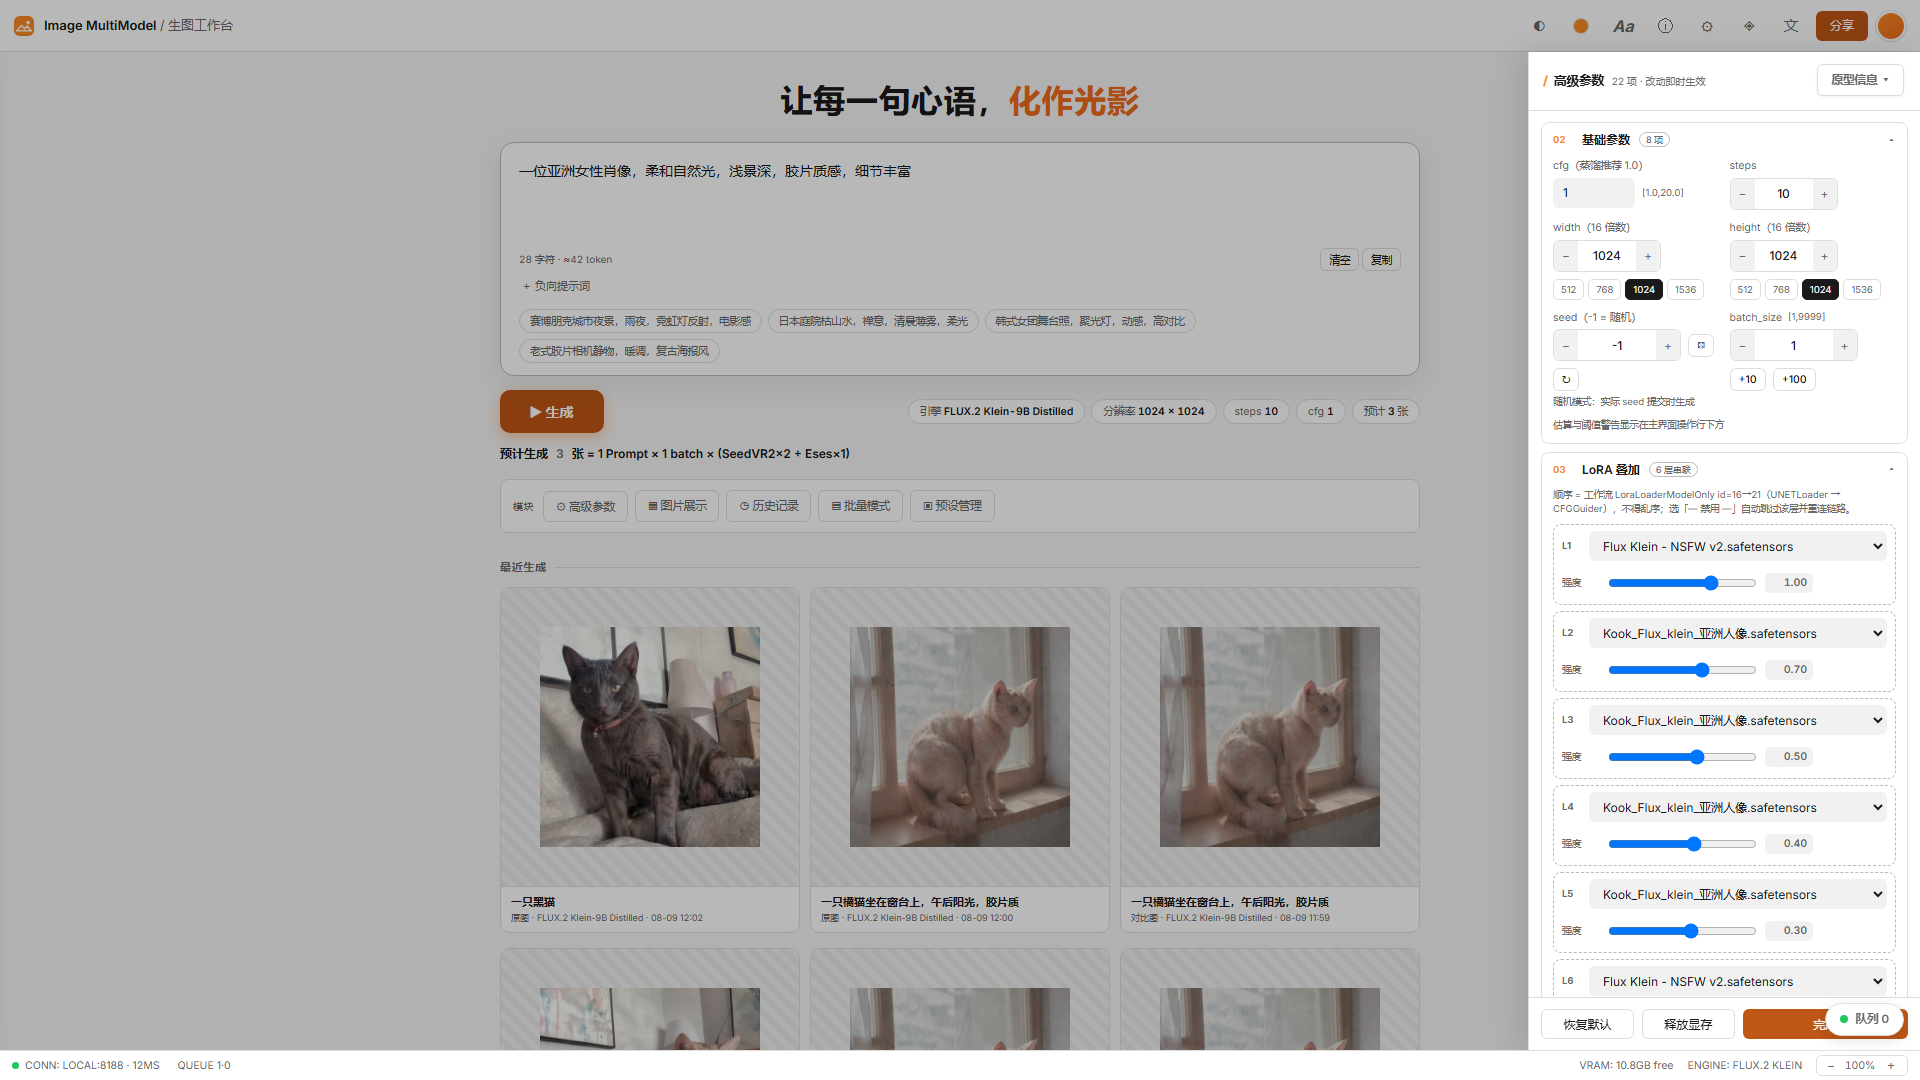
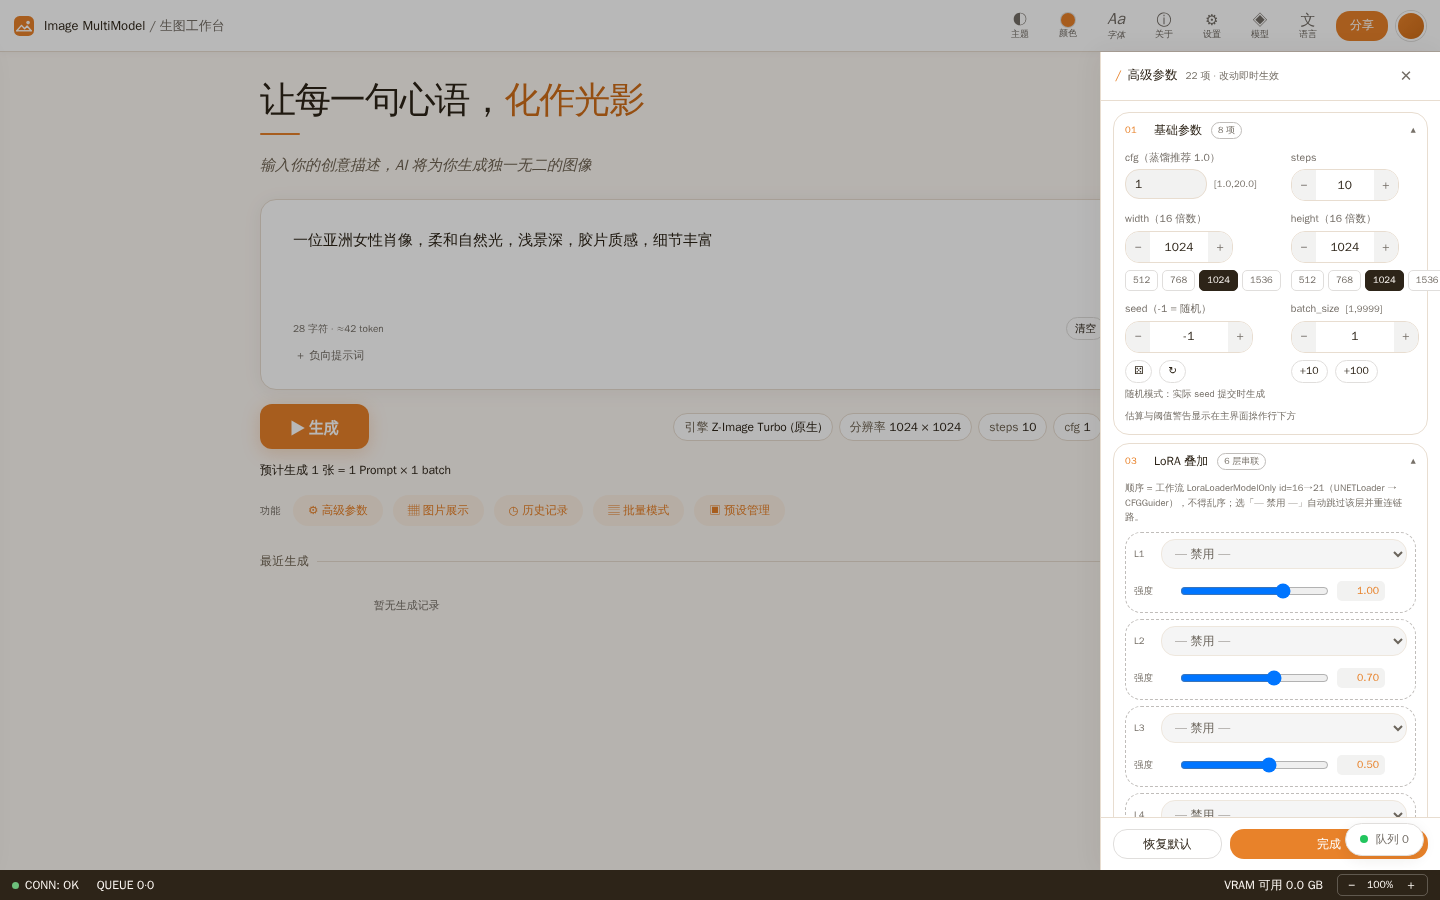
docs(readme): retake screenshots on cloud desktop

diff --git a/README.md b/README.md
@@ -41,6 +41,8 @@
 
 ### 界面展示
 
+> 以下截图在无 GPU 的云端环境实拍（CPU 后端、引擎未加载、未放置权重），图库与历史因此呈空态；实际生成画面请在配好 NVIDIA GPU 与权重的本机使用。
+
 **生图工作台主页** —— Prompt 输入、引擎切换、最近生成结果一览：
 
 ![主界面](https://gcore.jsdelivr.net/gh/ReSerendipity/Image-DuoModel@main/docs/assets/readme-image-duomodel-1-main.png)
@@ -195,6 +197,8 @@ Four additional experimental engines are registered on demand (Qwen3-VL visual c
 - **5 UI languages** — zh, zh-TW, en, ja, ko.
 
 ### Screenshots
+
+> These screenshots were captured on a CPU-only cloud build (no GPU, engines unloaded, no weights), so the gallery and history show their empty state. Generate real images on a machine with an NVIDIA GPU and the model weights installed.
 
 **Generation workbench home** — prompt input, engine switch, recent generations:
 
